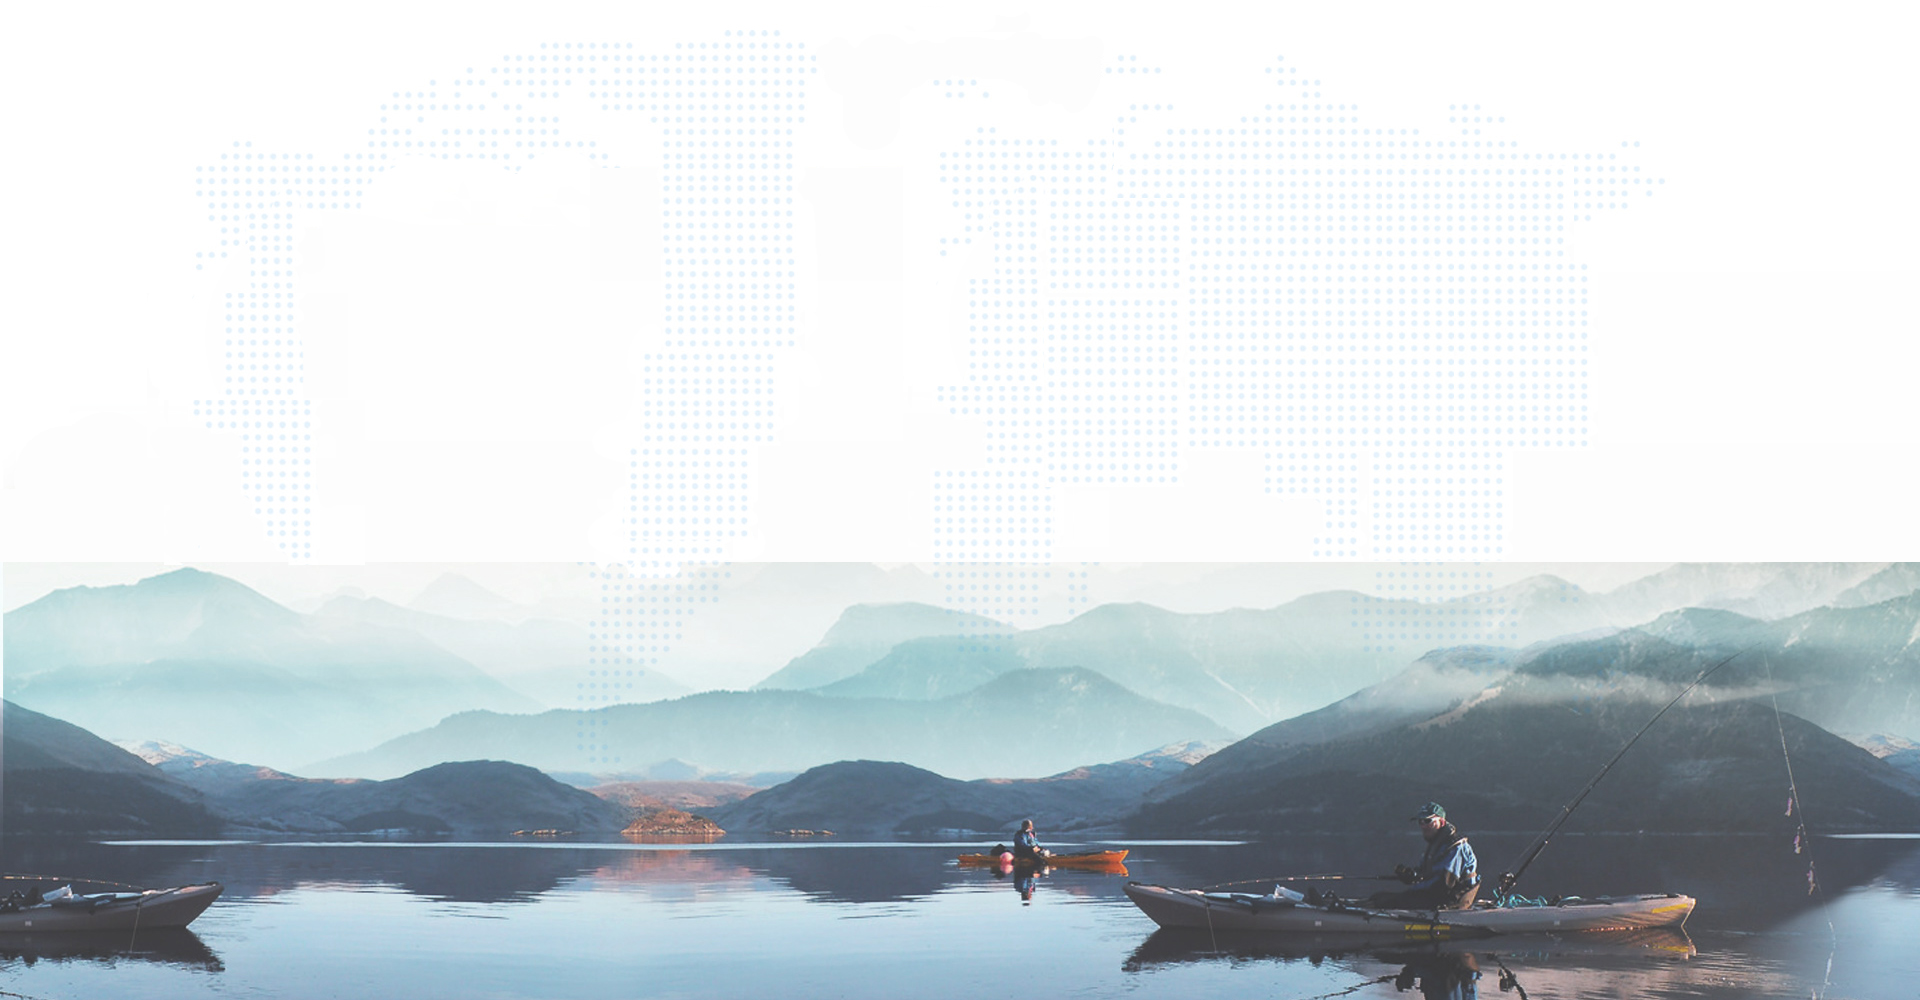
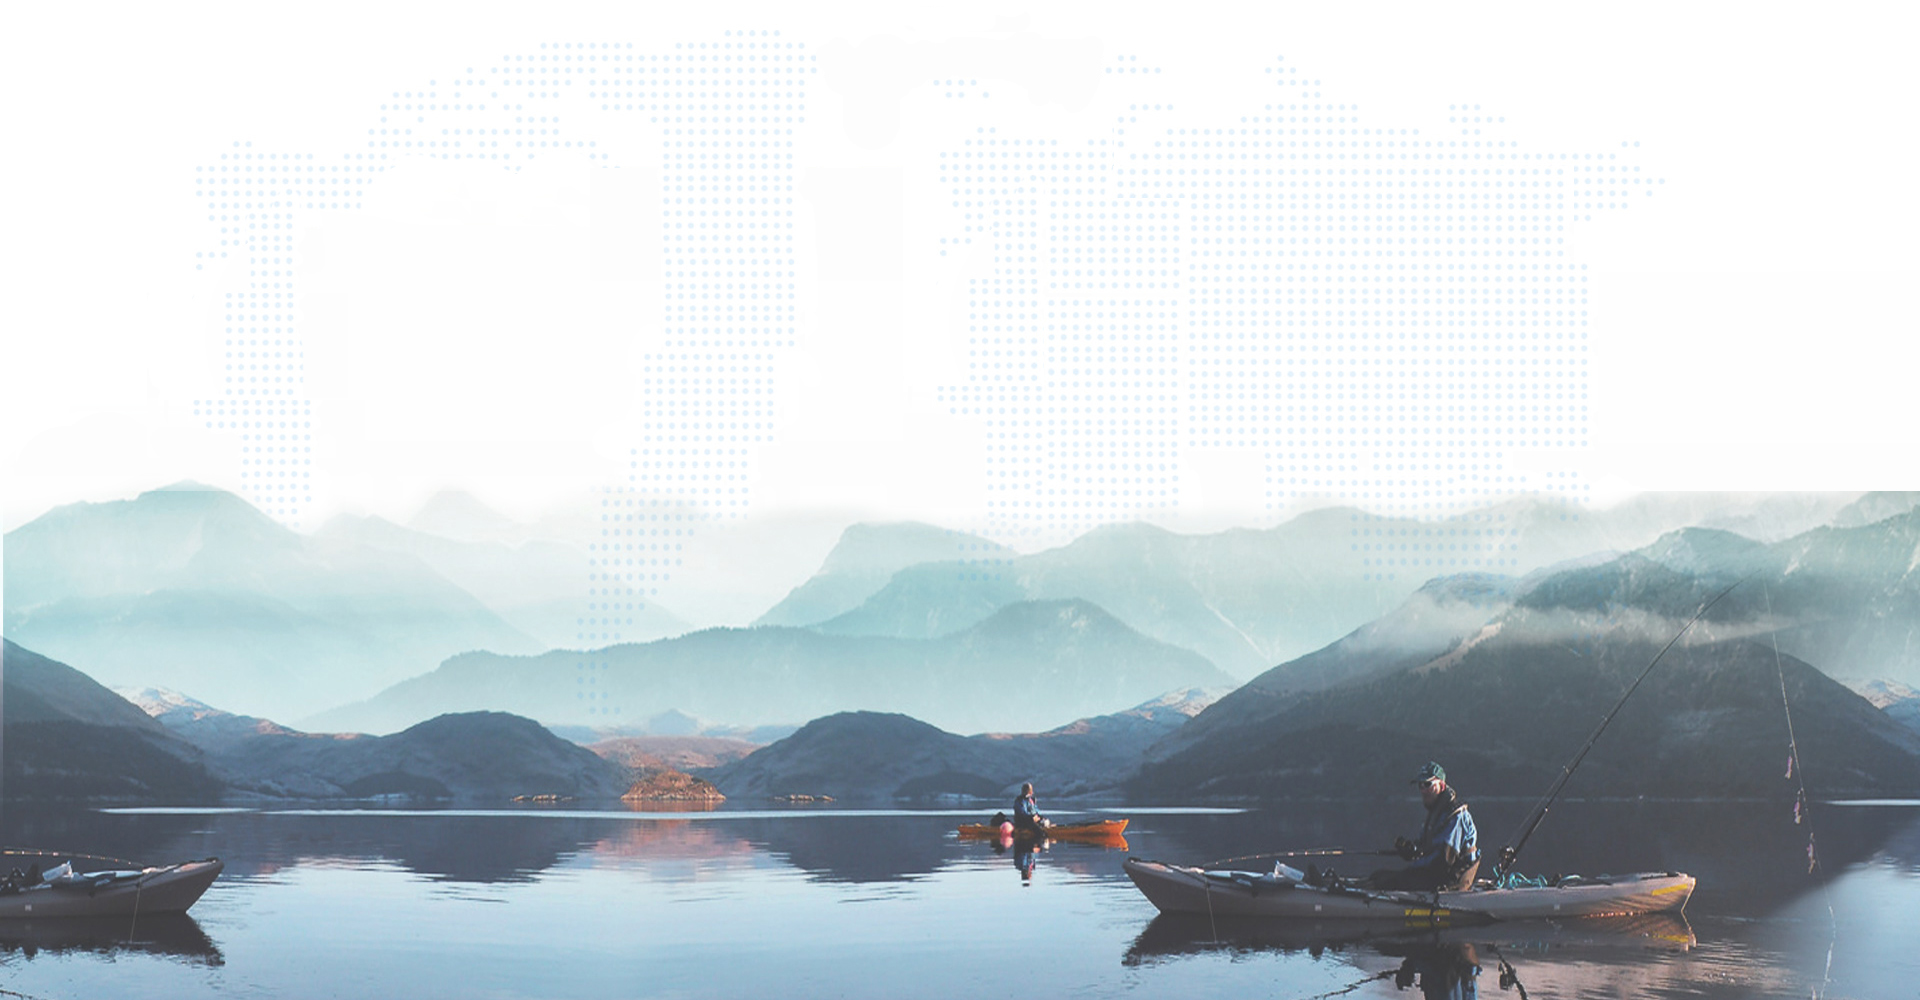
refactoring travel-block.jpg

Changed region(s): [[0.0, 0.465, 1.0, 1.0], [0.875, 0.744, 0.9062, 0.775]]

diff --git a/css/main.css b/css/main.css
@@ -565,7 +565,7 @@ p .text {
 
 
 .travel {
-	background-image: url(../img/travel/travel-block2.jpg);
+	background-image: url(../img/travel/travel-block.jpg);
 	background-size: 100% 900px;
 	height: 900px;
 }
